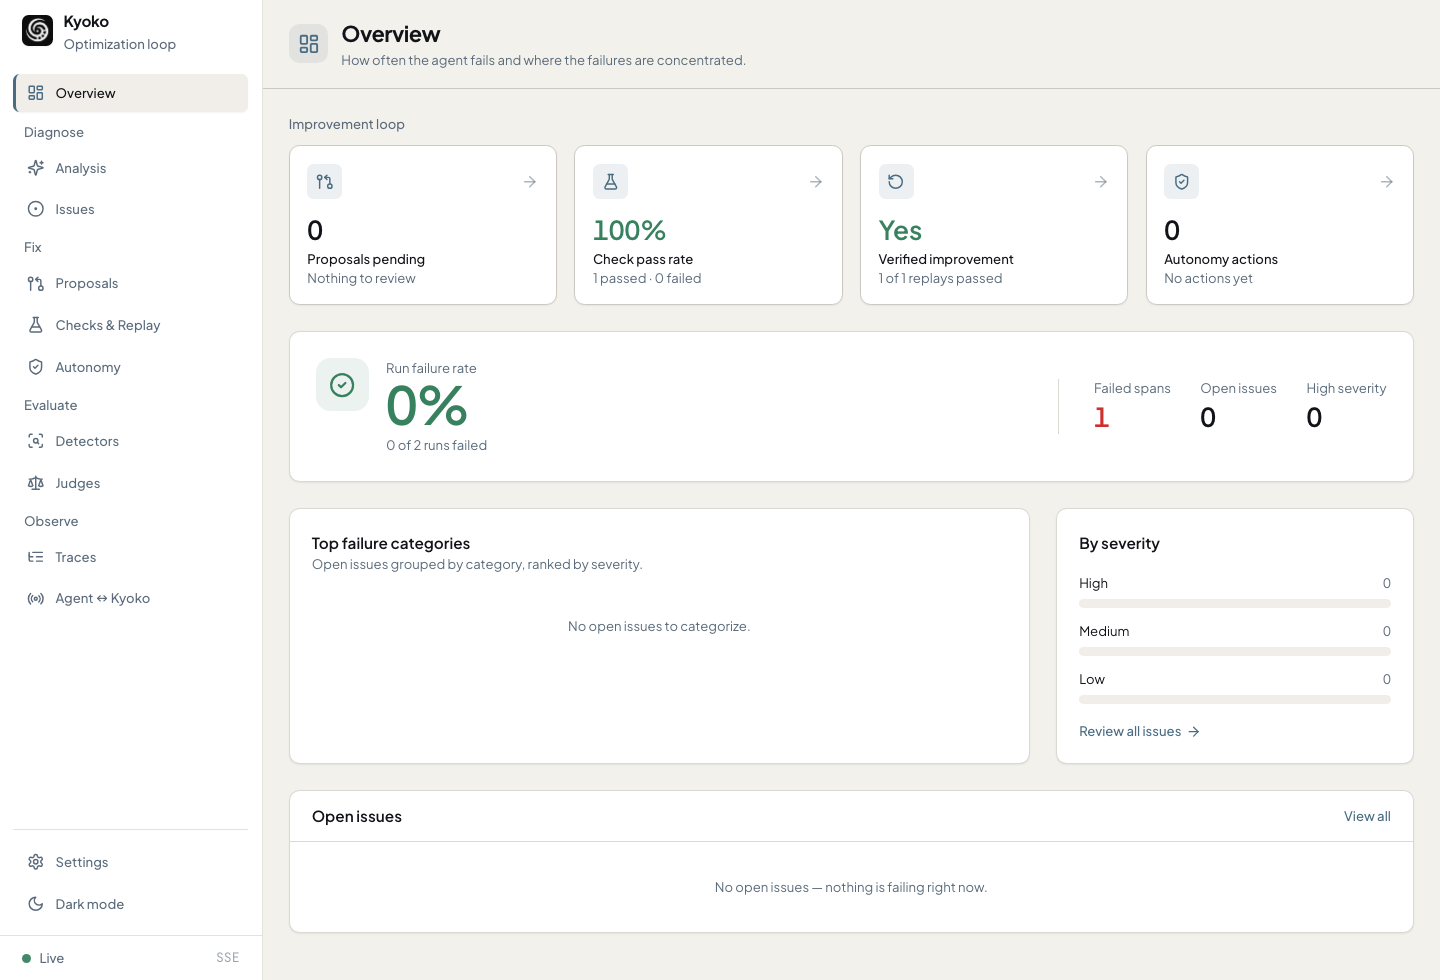
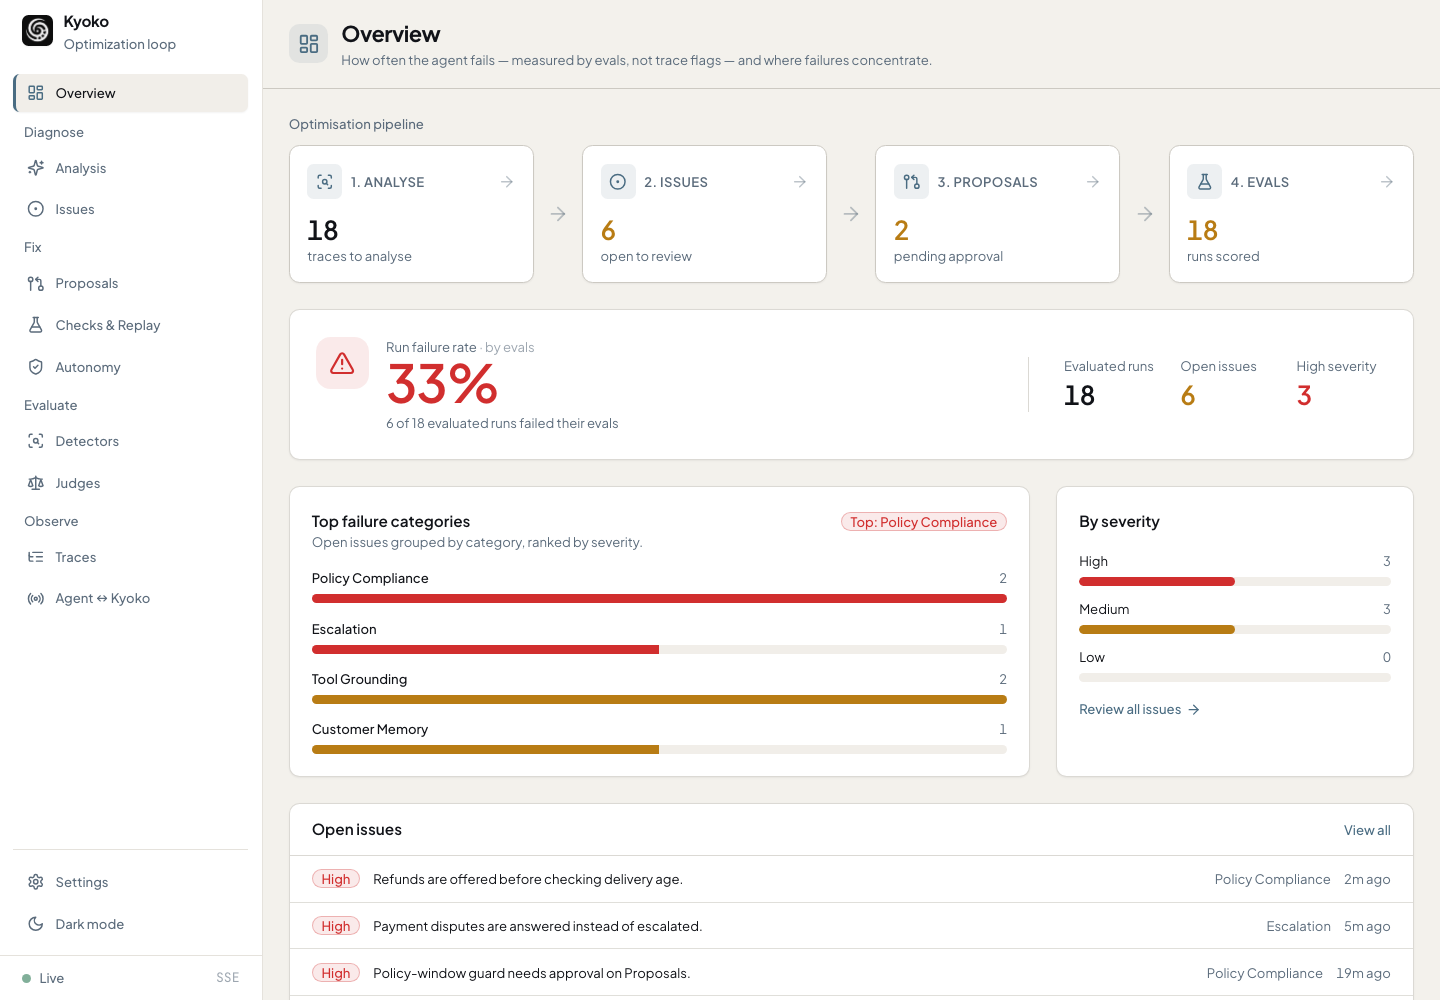
Update README dashboard screenshots

diff --git a/README.md b/README.md
@@ -4,22 +4,86 @@
 [![Python 3.12+](https://img.shields.io/badge/python-3.12%2B-blue.svg)](https://www.python.org/downloads/)
 [![License: Apache-2.0](https://img.shields.io/badge/license-Apache--2.0-green.svg)](LICENSE)
 
-## A Self-Improvement Loop For AI Agents
+**Kyoko is the all-in-one, fully local tool for debugging and improving your AI
+agents.**
 
-Kyoko turns a failed agent run into an evidence-backed issue, a proposed
-fix, replay/check evidence, and a gated apply decision.
+Point it at **any agent you're building** — instrument it with OpenTelemetry or
+the SDKs — or plug straight into CLI agents you already run like Codex, Claude
+Code, OpenClaw, and Hermes. Kyoko captures what your agent actually does and
+runs a closed repair loop over it: it **analyses** real runs into a living state
+reflection of the system, files recurring and generalised failures as
+**issues**, drafts concrete **fixes**, and proves them with replay and **evals**
+before anything ships. Everything runs on your machine — traces, database, and
+dashboard — and any model or external call is opt-in.
+
+Most agent tooling stops at showing you traces; you still have to read them,
+guess what went wrong, write the fix, and hope it didn't break something else.
+Kyoko closes that gap end to end, in one place.
+
+That state reflection is cumulative: Kyoko keeps learning from traces, issues,
+fixes, replays, and evals, so it can surface the problems humans would not
+think to measure by hand while still respecting the detectors and judges you
+explicitly choose.
 
 ![Kyoko dashboard overview](docs/assets/kyoko-dashboard-overview.png)
 
+## The loop
+
 ```text
-trace -> issue -> proposal -> check -> replay -> gated apply
+        ┌─────────────────┐          ┌─────────────────┐
+        │  ① Analyse      │ ───────▶ │  ② Issues       │
+        │  traces in      │          │  recurring      │
+        │                 │          │  failures       │
+        └─────────────────┘          └─────────────────┘
+                 ▲                             │
+                 │ measure                     │ accept
+                 │                             ▼
+        ┌─────────────────┐  ┌──────┐  ┌─────────────────┐
+        │  ④ Evals        │ ◀┤ gate ├─ │  ③ Proposals    │
+        │  failure rate   │  └──────┘  │  candidate      │
+        │                 │   apply    │  fixes          │
+        └─────────────────┘            └─────────────────┘
+
+   Gate = checks · replay · policy · locks; a fix applies only if it passes.
+   Evals score the result and feed the next analysis — the loop tightens.
 ```
 
-Kyoko is local-first: SQLite database, local blob store, loopback
-dashboard/API, JSON CLI, optional MCP server, and opt-in integrations for
-source telemetry, operator agents, and replay.
+1. **Analyse** — Kyoko reads your agent's traces *for you*, diagnoses what went
+   wrong, and updates a state reflection of how the system behaves over time.
+   No manual log-digging.
+2. **Issues** — it surfaces the failures to you automatically as first-class,
+   evidence-backed issues, grouped by category and severity so you fix the
+   pattern, not the symptom — including problems you did not predefine as a
+   metric.
+3. **Proposals** — each accepted issue becomes a concrete fix (to context/skills
+   or the agent's harness), then runs the **gate**: generated checks, bounded
+   replay, autonomy policy, and human locks. It applies only if it passes.
+4. **Evals** — a measurement plane of deterministic detectors and LLM judges
+   scores runs into a failure rate, before vs after. Failure is decided by
+   evals, never by a status flag on a trace.
 
-## Quick Demo
+**Run it your way.** The same loop, the same gate — you pick the autonomy level:
+
+- **Human-in-the-loop** — Kyoko surfaces issues and drafts fixes, and you review
+  and approve each change before it applies.
+- **Fully autonomous** — the policy auto-applies any change that clears replay,
+  evals, and human locks, and parks anything that doesn't for you to look at.
+
+Either way, nothing behavior-changing ships without passing the gate.
+
+## Why Kyoko
+
+- **OpenTelemetry-native.** Ingests OTLP/GenAI spans; SDKs and importers for the rest.
+- **Plugs into CLI agents.** Codex, Claude Code, OpenClaw, Hermes — operators author fixes, MCP drives the loop.
+- **Fully local.** SQLite + loopback UI. Nothing leaves your machine; external calls opt-in.
+- **Cumulative analysis.** Builds a state reflection from traces, issues, evals, and fixes, so repeated behavior becomes more accurate fixes over time.
+- **Measured, not guessed.** Failure rate from real evals — not status flags.
+- **Safe by default.** No change ships without passing the gate. No shortcuts, anywhere.
+- **Zero-fuss.** One `kyoko` CLI, near-zero deps, `--json` everywhere. No server, no cloud.
+
+![Kyoko issues review queue](docs/assets/kyoko-dashboard-issues.png)
+
+## Quick demo
 
 Kyoko requires Python 3.12 or newer. From this checkout:
 
@@ -31,12 +95,10 @@ kyoko serve --db /tmp/kyoko-demo.db
 
 Open [http://127.0.0.1:8765](http://127.0.0.1:8765).
 
-The demo uses bundled fixture data, so it does not require a live model,
-framework adapter, or replay server.
+The demo runs the full loop against bundled fixture data, so it needs no live
+model, framework adapter, or replay server.
 
 ## Install
-
-Current source install:
 
 ```bash
 git clone https://github.com/kayba-ai/kyoko.git
@@ -44,7 +106,7 @@ cd kyoko
 python3 -m pip install .
 ```
 
-After the package is published, use an isolated CLI install:
+After the package is published, prefer an isolated CLI install:
 
 ```bash
 pipx install kyoko
@@ -53,7 +115,7 @@ pipx install kyoko
 See [docs/INSTALL.md](docs/INSTALL.md) for `uv`, editable installs, the
 installer script, upgrades, and common setup fixes.
 
-## Use It In A Project
+## Use it in your project
 
 Run this from the root of an agent project:
 
@@ -66,27 +128,36 @@ kyoko project-bootstrap \
   --mcp-target codex
 ```
 
-Then check readiness and start the dashboard:
+`project-bootstrap` writes `.kyoko/kyoko.db`, source/replay scaffolds, MCP
+config, operator presets, and `.kyoko/NEXT_STEPS.md`. Then check readiness and
+start the dashboard:
 
 ```bash
 kyoko doctor --db .kyoko/kyoko.db --safe-smokes --json
 kyoko serve --db .kyoko/kyoko.db
 ```
 
-`project-bootstrap` writes `.kyoko/kyoko.db`, source/replay scaffolds, MCP
-config, operator presets, and `.kyoko/NEXT_STEPS.md`.
+Point telemetry at Kyoko with the Python or TypeScript SDK, a generated
+adapter, or an importer — see [Getting Started](docs/GETTING_STARTED.md) for the
+end-to-end walkthrough.
 
-## What Kyoko Does
+## What you get
 
-- Records or imports local agent traces from SDKs, generated adapters, OTLP,
-  Hermes, or OpenClaw.
-- Turns observed behavior into first-class issues with local evidence.
-- Converts user or operator fixes into validated `LearningProposal` records.
-- Generates checks and runs bounded replay before applying changes.
-- Applies context or harness changes only through policy gates and human locks.
-- Exposes the loop through a dashboard, JSON CLI, and local MCP server.
-
-## Integrations
+- **Telemetry in:** Python SDK, TypeScript SDK, generated source adapters,
+  OTLP/GenAI JSON, Hermes import, OpenClaw import.
+- **Diagnosis:** per-trace and cumulative analysis that folds behavior into a
+  state reflection, then turns recurring or generalised weaknesses into
+  evidence-backed issues with category, severity, and the spans where they
+  happened.
+- **Fixes out:** issues become validated `LearningProposal` records — authored
+  by you or an operator agent (Codex, Claude, or a generic command).
+- **Verification:** generated checks plus bounded replay against external
+  commands or managed loopback replay servers.
+- **Measurement:** an evidence-only eval plane — deterministic detectors and
+  LLM-judge evals — for what you choose to measure, alongside analysis that
+  surfaces unmeasured patterns from observed behavior.
+- **Surfaces:** a local dashboard, a JSON-everywhere CLI, and a stdio MCP server
+  for coding agents — all sharing the same gated apply path.
 
 | Area | Supported paths |
 | --- | --- |
@@ -99,6 +170,25 @@ config, operator presets, and `.kyoko/NEXT_STEPS.md`.
 See [docs/INTEGRATIONS.md](docs/INTEGRATIONS.md) and
 [examples/README.md](examples/README.md).
 
+## How safety works
+
+Every behavior-changing path — operator output, imports, MCP tools, and
+`kyoko improve` — flows through one gate:
+
+1. Validate the proposal against its schema.
+2. Resolve the evidence it references.
+3. Generate or select checks.
+4. Run bounded replay and the checks.
+5. Evaluate the autonomy policy.
+6. Enforce human locks on protected targets.
+7. Apply context or harness changes **only** if the gate allows it.
+
+Context writes update Kyoko-managed skills and delivery rules; harness writes
+create reviewable patch transactions against an explicit workspace root.
+Replay server URLs are loopback-only unless you pass `--allow-remote-server`,
+and evidence exported to prompts, MCP, API, or bundles is redacted by default.
+See [docs/SECURITY.md](docs/SECURITY.md) and [docs/ARCHITECTURE.md](docs/ARCHITECTURE.md).
+
 ## Documentation
 
 - [Getting Started](docs/GETTING_STARTED.md): demo, project bootstrap,
@@ -108,15 +198,17 @@ See [docs/INTEGRATIONS.md](docs/INTEGRATIONS.md) and
 - [Integrations](docs/INTEGRATIONS.md): source adapters, replay adapters,
   operator agents, MCP, and SDKs.
 - [CLI Reference](docs/CLI.md): grouped command reference.
+- [Architecture](docs/ARCHITECTURE.md): runtime model, data model, and the gate.
 - [Security](docs/SECURITY.md): local data, loopback serving, tokens,
   redaction, and write boundaries.
+- [Scope](docs/SCOPE.md): what v0 is and is not.
 - [Development](docs/DEVELOPMENT.md): tests, dashboard bundle, release smoke,
   and contract artifacts.
 
 Specs, schemas, fixtures, and design decisions live under `docs/` as reference
 contracts.
 
-## Repository Layout
+## Repository layout
 
 ```text
 kyoko/              Python import package, CLI runtime, dashboard/API, bundled assets
@@ -130,15 +222,16 @@ docs/               User docs plus specs, schemas, fixtures, and decisions
 
 ## Status
 
-Kyoko is pre-1.0 software. The published distribution, primary CLI, Python
-import namespace, and project data directory all use the `kyoko` name.
+Kyoko is pre-1.0, single-user, local-first software. The published
+distribution, primary CLI, Python import namespace, and project data directory
+all use the `kyoko` name.
 
-Implemented: local runtime, dashboard, demo, doctor checks, SDKs,
-source/replay scaffolds, MCP server, operator adapters, checks, replay, and
-conservative autonomy gates.
+**Implemented:** local runtime, dashboard, demo, doctor checks, SDKs,
+source/replay scaffolds, MCP server, operator adapters, checks, replay, evals,
+and conservative autonomy gates.
 
-Outside v0: hosted observability, team workspaces, cloud workers, multi-tenant
-auth, billing, and unchecked autonomous repository writes.
+**Outside v0:** hosted observability, team workspaces, cloud workers,
+multi-tenant auth, billing, and unchecked autonomous repository writes.
 
 ## License
 
